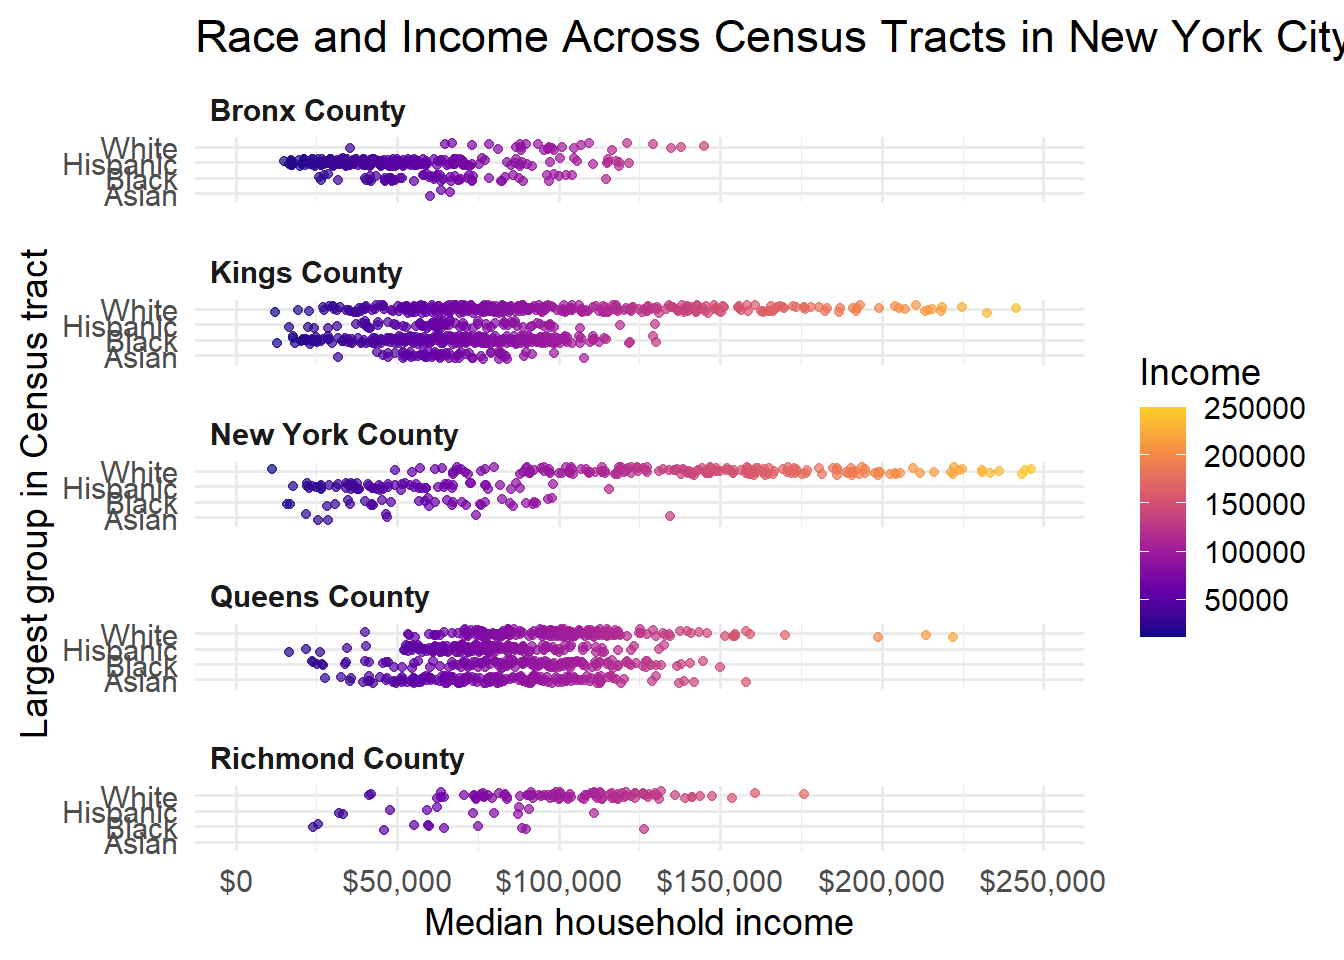
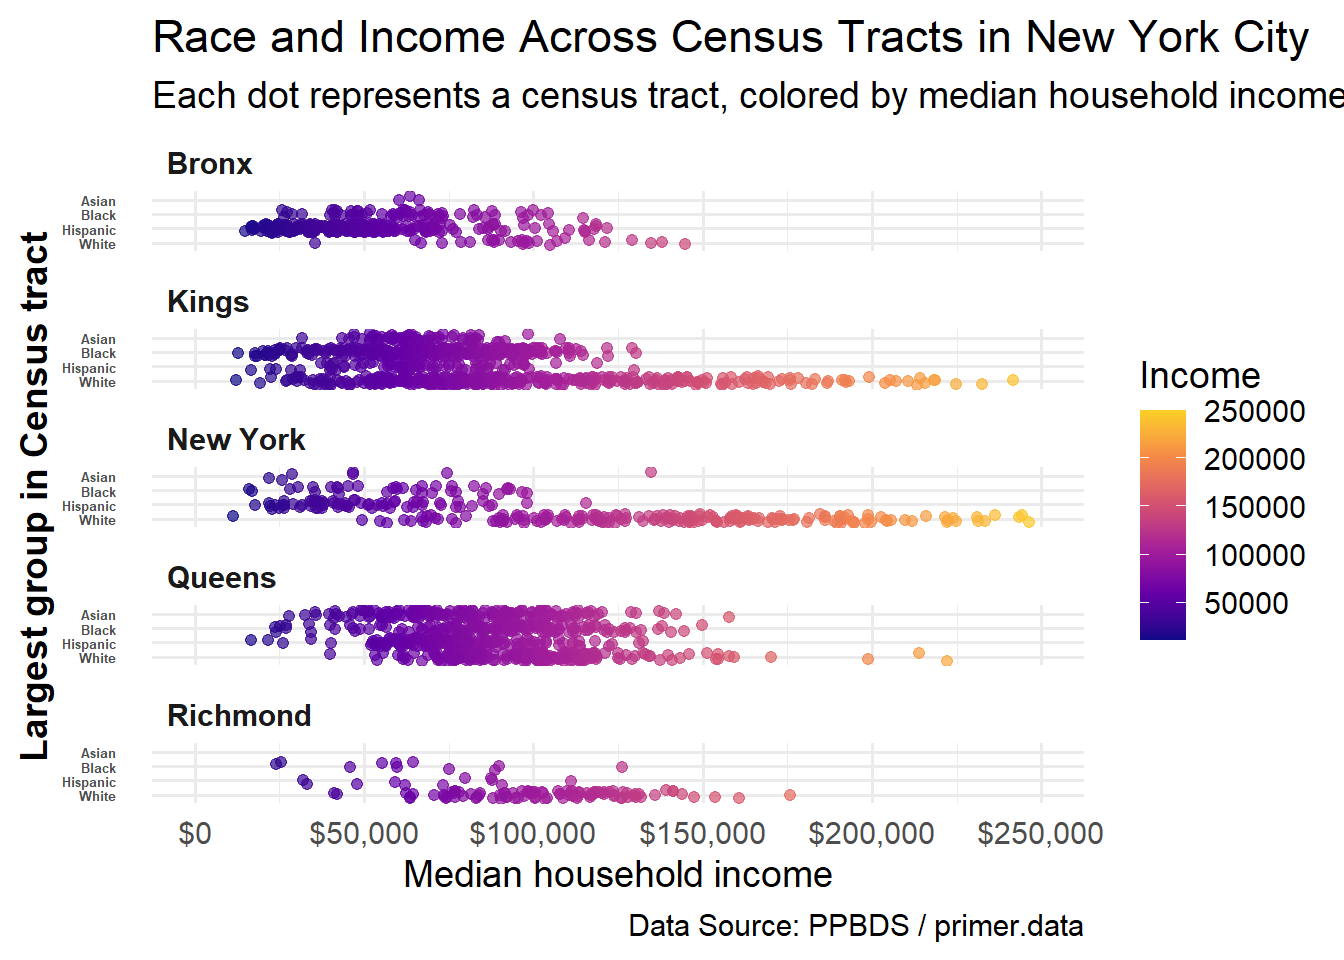
Final Version

diff --git a/_site/index.html b/_site/index.html
@@ -134,30 +134,6 @@ ul.task-list li input[type="checkbox"] {
 
 
 <div class="cell">
-<div class="cell-output cell-output-stderr">
-<pre><code>── Attaching core tidyverse packages ──────────────────────── tidyverse 2.0.0 ──
-✔ dplyr     1.1.4     ✔ readr     2.1.5
-✔ forcats   1.0.0     ✔ stringr   1.5.1
-✔ ggplot2   3.5.2     ✔ tibble    3.3.0
-✔ lubridate 1.9.4     ✔ tidyr     1.3.1
-✔ purrr     1.0.4     
-── Conflicts ────────────────────────────────────────── tidyverse_conflicts() ──
-✖ dplyr::filter() masks stats::filter()
-✖ dplyr::lag()    masks stats::lag()
-ℹ Use the conflicted package (&lt;http://conflicted.r-lib.org/&gt;) to force all conflicts to become errors
-Rows: 2242 Columns: 3
-── Column specification ────────────────────────────────────────────────────────
-Delimiter: ","
-chr (2): tract, race
-dbl (1): med_income
-
-ℹ Use `spec()` to retrieve the full column specification for this data.
-ℹ Specify the column types or set `show_col_types = FALSE` to quiet this message.</code></pre>
-</div>
-<div class="cell-output cell-output-stderr">
-<pre><code>Warning: Removed 53 rows containing missing values or values outside the scale range
-(`geom_point()`).</code></pre>
-</div>
 <div class="cell-output-display">
 <div>
 <figure class="figure">
@@ -166,6 +142,7 @@ dbl (1): med_income
 </div>
 </div>
 </div>
+<p>This plot illustrates the relationship between median household income and the largest racial group across census tracts in New York City. Each point on the graph represents a single census tract, positioned along the x-axis according to its median income and along the y-axis by the racial or ethnic group that forms the largest share of that tract’s population (White, Hispanic, Black, or Asian). The points are colored on a gradient from dark purple to yellow, with brighter colors indicating higher income levels. The plot is divided into five vertical panels—one for each of the city’s boroughs (Bronx, Kings, New York, Queens, and Richmond). This faceted layout enables comparisons of racial-income distributions between boroughs. In general, the plot reveals that income varies significantly by both racial group and borough, with tracts where the majority group is White or Asian often associated with higher median incomes. The visual design highlights disparities and concentrations of wealth, offering insight into the socioeconomic landscape of New York City’s diverse neighborhoods.</p>
 
 
 
